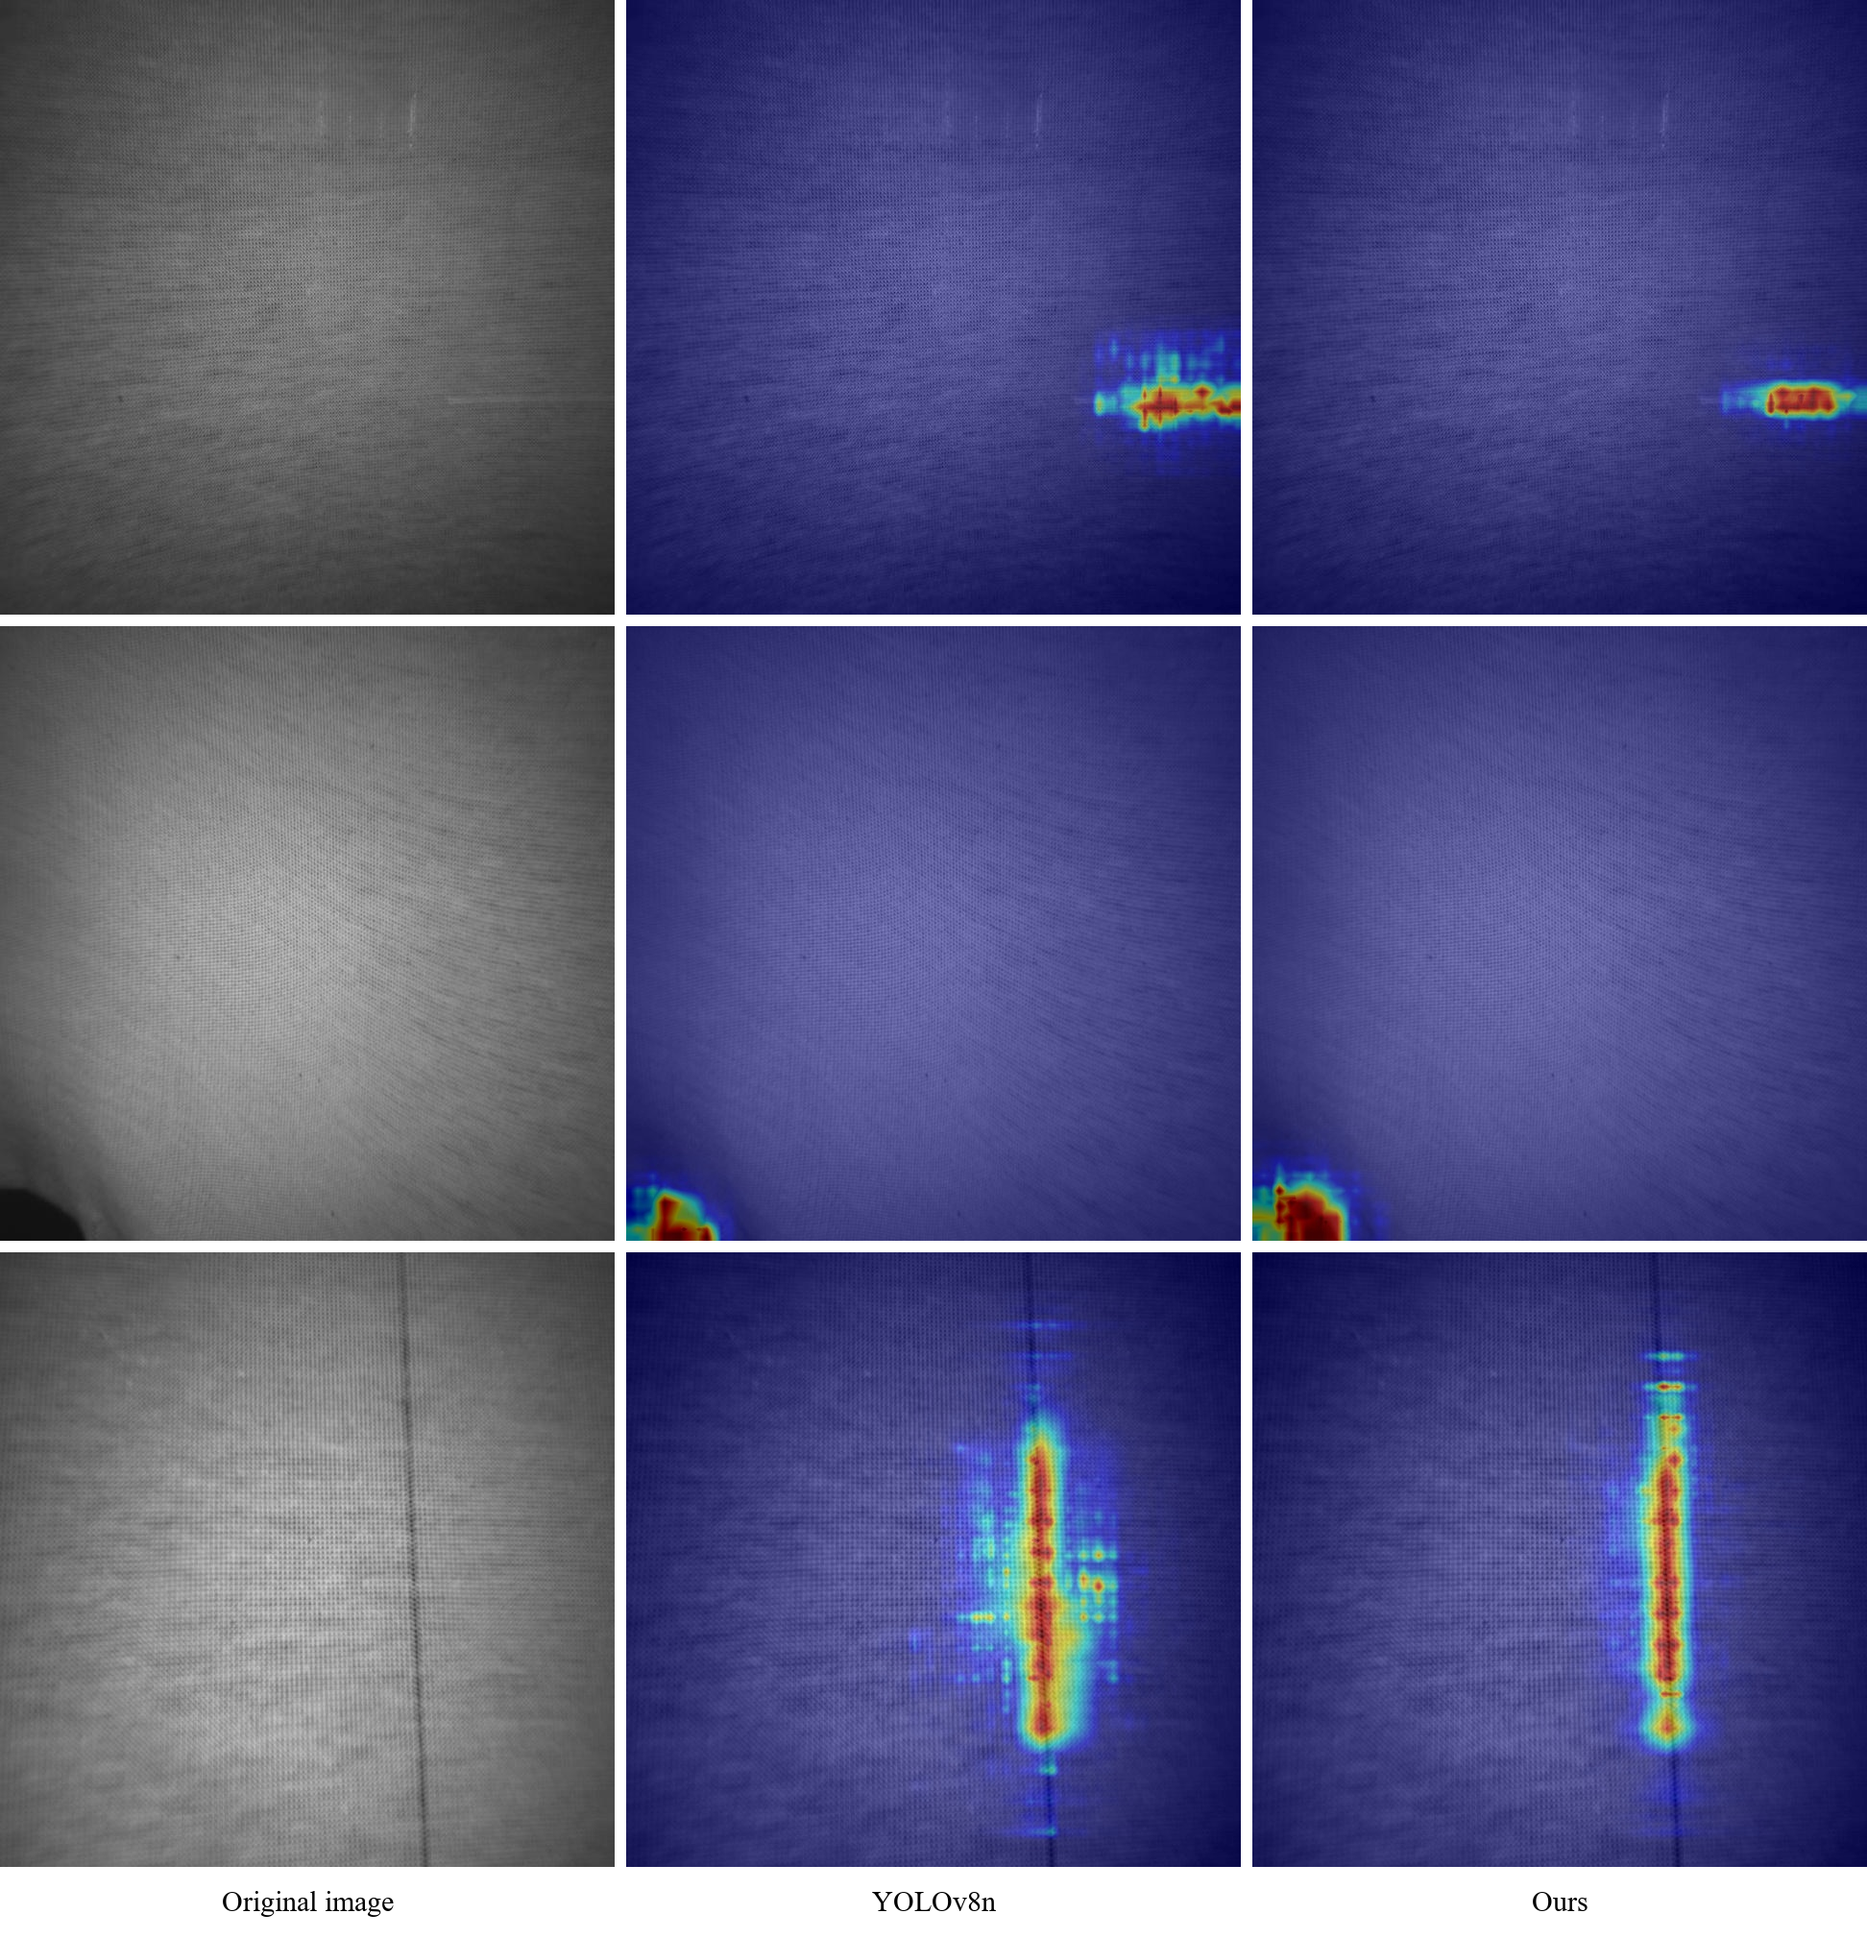
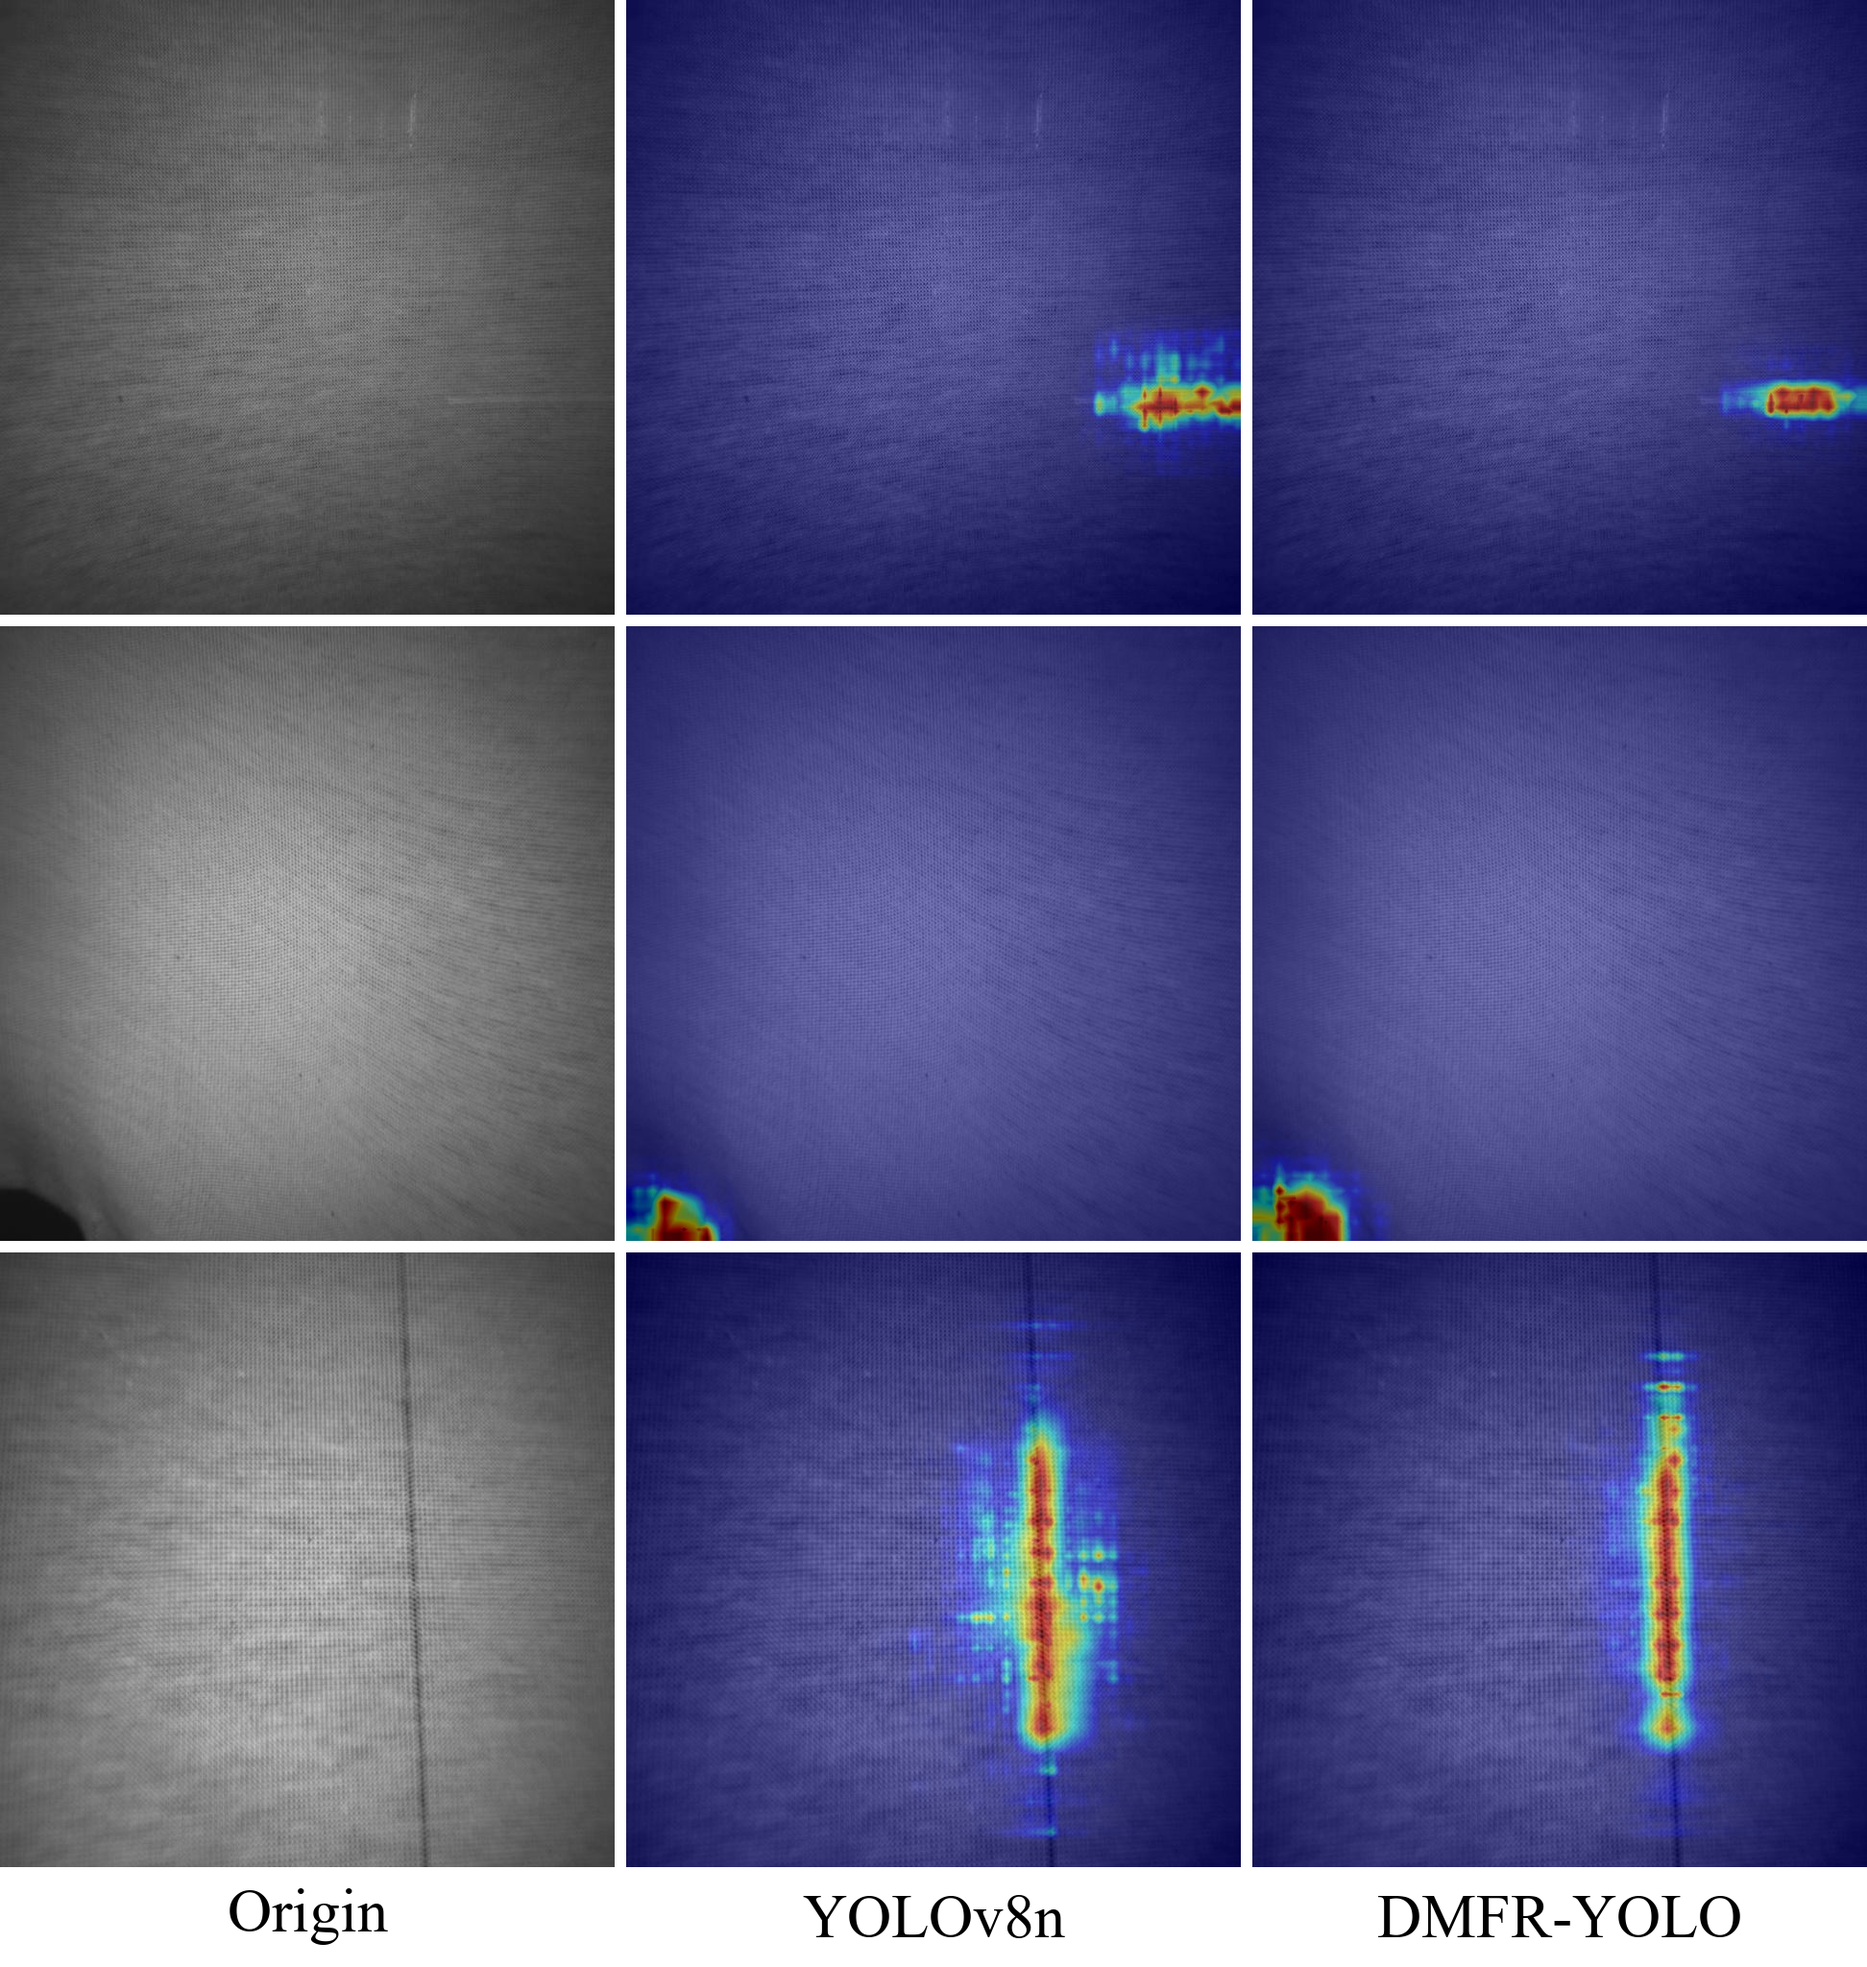
Enlarge heatmap column labels and use DMFR-YOLO name

diff --git a/paper/compose_heatmap_figure.py b/paper/compose_heatmap_figure.py
@@ -1,4 +1,4 @@
-"""Compose source, YOLOv8n, and TFRA-YOLO heatmaps into a paper figure."""
+"""Compose source, YOLOv8n, and DMFR-YOLO heatmaps into a paper figure."""
 
 from __future__ import annotations
 
@@ -9,9 +9,9 @@ from PIL import Image, ImageDraw, ImageFont
 
 
 COLUMNS = (
-    ("src", "", "Original image"),
+    ("src", "", "Origin"),
     ("yolov8n", "_cam", "YOLOv8n"),
-    ("ours", "_cam", "Ours"),
+    ("ours", "_cam", "DMFR-YOLO"),
 )
 
 
@@ -46,7 +46,11 @@ def main() -> None:
     parser.add_argument("--input", type=Path, required=True, help="Directory containing src/, yolov8n/, and ours/.")
     parser.add_argument("--output", type=Path, required=True, help="PNG output path.")
     parser.add_argument("--gap", type=int, default=12, help="White spacing between panels in pixels.")
+    parser.add_argument("--label-font-size", type=int, default=64,
+                        help="Column-label font size in pixels (default: 64).")
     args = parser.parse_args()
+    if args.label_font_size <= 0 or args.gap < 0:
+        parser.error("Label font size must be positive and gap must be nonnegative.")
 
     root = args.input.expanduser().resolve()
     stems = collect_rows(root)
@@ -59,7 +63,7 @@ def main() -> None:
                 if image.size != (panel_w, panel_h):
                     raise ValueError(f"Unexpected image size: {path} is {image.size}, expected {(panel_w, panel_h)}")
 
-    label_h = 74
+    label_h = args.label_font_size + 40
     width = panel_w * len(COLUMNS) + args.gap * (len(COLUMNS) - 1)
     height = panel_h * len(stems) + args.gap * (len(stems) - 1) + label_h
     canvas = Image.new("RGB", (width, height), "white")
@@ -72,12 +76,15 @@ def main() -> None:
                 canvas.paste(image.convert("RGB"), (x, y))
 
     draw = ImageDraw.Draw(canvas)
-    font = load_font(30)
-    label_y = height - label_h + 19
+    font = load_font(args.label_font_size)
     for col, (_, _, label) in enumerate(COLUMNS):
         x_center = col * (panel_w + args.gap) + panel_w / 2
         bbox = draw.textbbox((0, 0), label, font=font)
-        draw.text((x_center - (bbox[2] - bbox[0]) / 2, label_y), label, fill="black", font=font)
+        text_w, text_h = bbox[2] - bbox[0], bbox[3] - bbox[1]
+        if text_w > panel_w:
+            raise ValueError(f"Column label is wider than its panel: {label}")
+        label_y = height - label_h + (label_h - text_h) / 2 - bbox[1]
+        draw.text((x_center - text_w / 2 - bbox[0], label_y), label, fill="black", font=font)
 
     args.output.parent.mkdir(parents=True, exist_ok=True)
     canvas.save(args.output, quality=95)

diff --git a/paper/manuscript.tex b/paper/manuscript.tex
@@ -341,7 +341,7 @@ Fig.~\ref{fig:qualitative} compares the detection results of different models on
 \begin{figure}[!tb]
 \centering
 \includegraphics[width=\columnwidth]{heatmap_comparison.png}
-\caption{Feature visualization of YOLOv8n and DMFR-YOLO. From left to right: original image, YOLOv8n, and \model (Ours).}
+\caption{Feature visualization of YOLOv8n and DMFR-YOLO. From left to right: original image (Origin), YOLOv8n, and \model.}
 \label{fig:heatmaps}
 \end{figure}
 

diff --git a/paper/submission/DMFR-YOLO - Defect Morphology Encoding and Feature Reassembly for Fabric Defect Detection.tex b/paper/submission/DMFR-YOLO - Defect Morphology Encoding and Feature Reassembly for Fabric Defect Detection.tex
@@ -341,7 +341,7 @@ Fig.~\ref{fig:qualitative} compares the detection results of different models on
 \begin{figure}[!tb]
 \centering
 \includegraphics[width=\columnwidth]{fig8.png}
-\caption{Feature visualization of YOLOv8n and DMFR-YOLO. From left to right: original image, YOLOv8n, and \model (Ours).}
+\caption{Feature visualization of YOLOv8n and DMFR-YOLO. From left to right: original image (Origin), YOLOv8n, and \model.}
 \label{fig:heatmaps}
 \end{figure}
 
